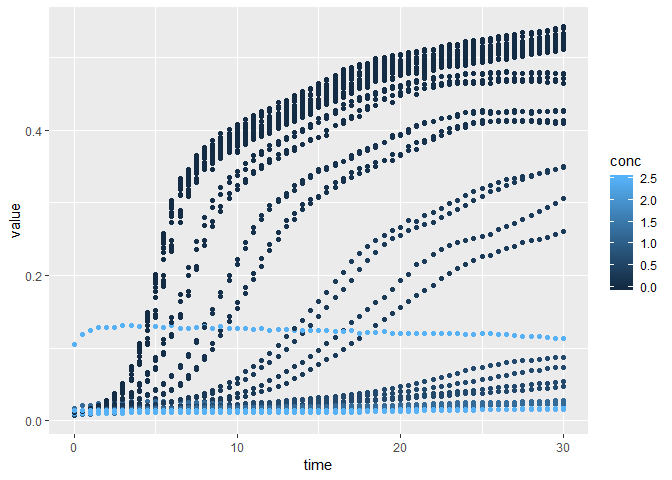
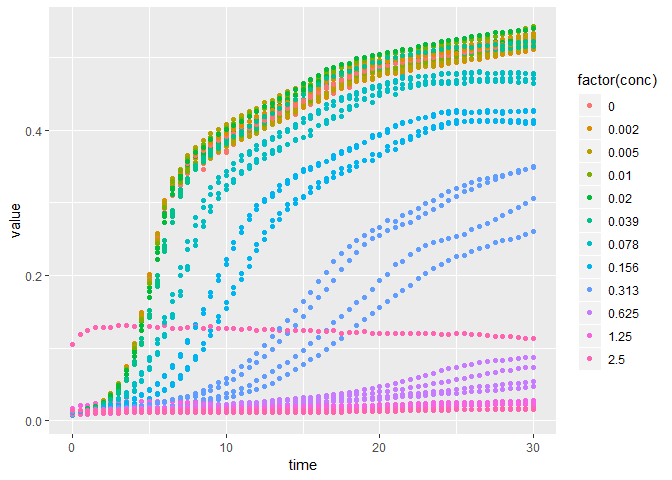
copy-edited E01

diff --git a/explorations/E-01-growth-rates.md b/explorations/E-01-growth-rates.md
@@ -1,11 +1,15 @@
+---
+title: "Loading and visualizing growth rate data"
+layout: page
+---
+
 ------------------------------------------------------------------------
 
 > ### Learning Objectives
 >
-> -   Use R to practice loading, manipulating, and visualizing growth
->     rate data.
-> -   Implement growth rate models in R.
-> -   Examine more complex growth data to challenge model assumptions.
+> -   Use some of R's key functions for loading and understanding data
+>     sets
+> -   Explore the **`ggplot2`** package to visualize growth rate data
 
 ------------------------------------------------------------------------
 
@@ -18,10 +22,10 @@ Loading some growth rate data
 
 In this exploration we'll load some real experimental growth rate data
 into R. If you haven't already, the readings [introducing
-R](../readings/R-01-intro-to-r), [starting with
-data](../readings/R-02-starting-with-data), and [using
-ggplot2](../readings/R-04-visualization-ggplot2) provide some background
-to the coding we'll use here.
+R](../../readings/R-01-intro-to-r), [starting with
+data](../../readings/R-02-starting-with-data), and [using
+ggplot2](../../readings/R-04-visualization-ggplot2) provide some
+background to the coding we'll use here.
 
 In some cases we might start with data stored locally on our computer,
 or online via a link. But here we'll take advantage of a data set that
@@ -44,21 +48,10 @@ library(growthrates)
 
     ## Loading required package: deSolve
 
-> ### Advanced note -- checking for installed packages
->
-> If you were writing a script that needed a user to load a certain
-> package, it is better to check if they've installed it, then load or
-> install+load as necessary. Here's an example piece of code that does
-> it. Don't stress if this feels too advanced.
->
-> ``` {.r}
-> if(!require(growthrates)) install.packages("growthrates",repos = "http://cran.us.r-project.org")
-> ```
-
 Getting to know the new package and data
 ----------------------------------------
 
-Okay, so we've loaded the package. Let's used `?` to look at the help
+Okay, so we've loaded the package. Let's use `?` to look at the help
 file.
 
 ``` {.r}
@@ -99,7 +92,7 @@ data(antibiotic)
 
 > ### Advanced note -- the diverse outputs of a single function
 >
-> You may be surprised that the data() function could yield a list of
+> You may be surprised that the `data()` function could yield a list of
 > data, or load a particular data set, depending on the arguments you
 > enter. Many functions in R can take a range of arguments, and the
 > output many depend on what arguments you chose to specify. The help
@@ -137,7 +130,7 @@ size, but the relative change should still be useful for seeing the
 pattern of growth. *(Note: this assumes that the optical density changes
 linearly with the bacterial concentration.)*
 
-There are a few other variables `conc` tells us the concentration of
+There are a few other variables. `conc` tells us the concentration of
 tetracylcine used in each well, and `repl` tells us which replicate.
 They had four replicates. In other words, they repeated each growth
 experiment with the exact same antibiotic concentration 4 times. This
@@ -145,10 +138,12 @@ helps check that they are getting consistent results.
 
 > ### Challenge -- sources of noise
 >
-> -   Based on the results from a single lab, would you be confident to
->     draw conclusions about the growth of this species in general?\
+> -   Based on the results from a single lab, would you be confident
+>     drawing conclusions about the growth of this species in general?
 > -   What are some other sources of variation that might influence the
->     growth rate data?
+>     growth rate data? (To think about this, imagine all the decisions,
+>     explicit or implicit, made by the researchers as they set this
+>     up.)
 
 Visualizing our data
 --------------------
@@ -161,14 +156,14 @@ try to fiddle with the code to start getting a feel for the syntax. If
 you've worked through [Reading 3: Manipulating and analyzing data with
 tidyverse](../readings/R-03-dplyr), you've already installed the
 **`tidyverse`** package, which includes **`ggplot2`**. If not, the code
-`install.packages("ggplot2")` can install the package.
+`install.packages("ggplot2")` can install just that package.
 
 ``` {.r}
 library(ggplot2)
 ggplot(antibiotic,aes(x=time,y=value))+geom_point()
 ```
 
-![figure](E-01-growth-rates_files/figure-markdown/unnamed-chunk-9-1.png)
+![figure](E-01-growth-rates_files/figure-markdown/unnamed-chunk-8-1.png)
 
 With one short line of code, we made a pretty nice plot. A few notes
 about what I entered into the `ggplot()` function. I first entered the
@@ -185,7 +180,7 @@ the concentrations using different colors.
 ggplot(antibiotic,aes(x=time,y=value,color=conc))+geom_point()
 ```
 
-![figure](E-01-growth-rates_files/figure-markdown/unnamed-chunk-10-1.png)
+![figure](E-01-growth-rates_files/figure-markdown/unnamed-chunk-9-1.png)
 
 Hmmm, that doesn't look great. The automatic scale doesn't work well
 when some values are very close together while others are spread apart.
@@ -195,18 +190,30 @@ out that `ggplot()` works better in these cases when the variable is a
 discrete (or factor) scale, not a continuous scale. Don't stress if this
 feels confusing, but let's just try turning the concentrations into a
 discrete factor variable instead. *(If you need a refresher on factors,
-[Reading 2: Starting with data](../readings/R-02-starting-with-data)
+[Reading 2: Starting with data](../../readings/R-02-starting-with-data)
 explains what a factor is and how R works with them.)*
 
 ``` {.r}
 ggplot(antibiotic,aes(x=time,y=value,color=factor(conc)))+geom_point()
 ```
 
-![figure](E-01-growth-rates_files/figure-markdown/unnamed-chunk-11-1.png)
+![figure](E-01-growth-rates_files/figure-markdown/unnamed-chunk-10-1.png)
 
 That's a bit easier to read. Now we can clearly see the different
 replicates within a single concentration, and we can distinguish pretty
-well between the concentration gradients.
+well between the concentration gradients. As discussed in the [ggplot2
+reading](../readings/R-04-visualization-ggplot2), we can also use
+*facets*, making an individual plot for each antibiotic concentration.
+Data visualization experts sometimes call these *small multiples*, and
+they can be a nice way to view a lot of data at once.
+
+``` {.r}
+ggplot(antibiotic,aes(x=time,y=value)) +
+    geom_point() +
+    facet_wrap(~ conc)
+```
+
+![figure](E-01-growth-rates_files/figure-markdown/unnamed-chunk-11-1.png)
 
 > ### Challenge -- interpreting the data
 >
@@ -218,6 +225,6 @@ well between the concentration gradients.
 > -   What conclusions can you draw from these data?
 
 <p style="text-align: right; font-size: small;">
-Page built on: 2018-09-18 at 15:41:26
+Page built on: 2018-09-19 at 11:16:35
 </p>
 

diff --git a/explorations/answers/E02C1.md b/explorations/answers/E02C1.md
@@ -26,13 +26,13 @@ A few things to keep in mind to potentially explain this:
     cells floating around that are also being counted.
 -   These microbes often have high DNA mutation rates, and some mutant
     individuals might arise that can continue to flourish even when
-    $$N$$ is near $$K$$. Increasing population growth at this point
-    could potentially reflect evolution in action.
+    $$N$$ is near $$K$$. Continued population growth at this point could
+    potentially reflect evolution in action.
 -   Our logistic model imposes a particular mathematical relation on the
     rate of slowing. It's simple, but there's no reason to be sure that
     it's the best. We might need more parameters or different
-    relationships between variables to be able to fit more realistic
-    data.
+    relationships between variables in the model to be able to fit more
+    realistic data.
 
 The [phases
 section](https://en.wikipedia.org/wiki/Bacterial_growth#Phases) of the
